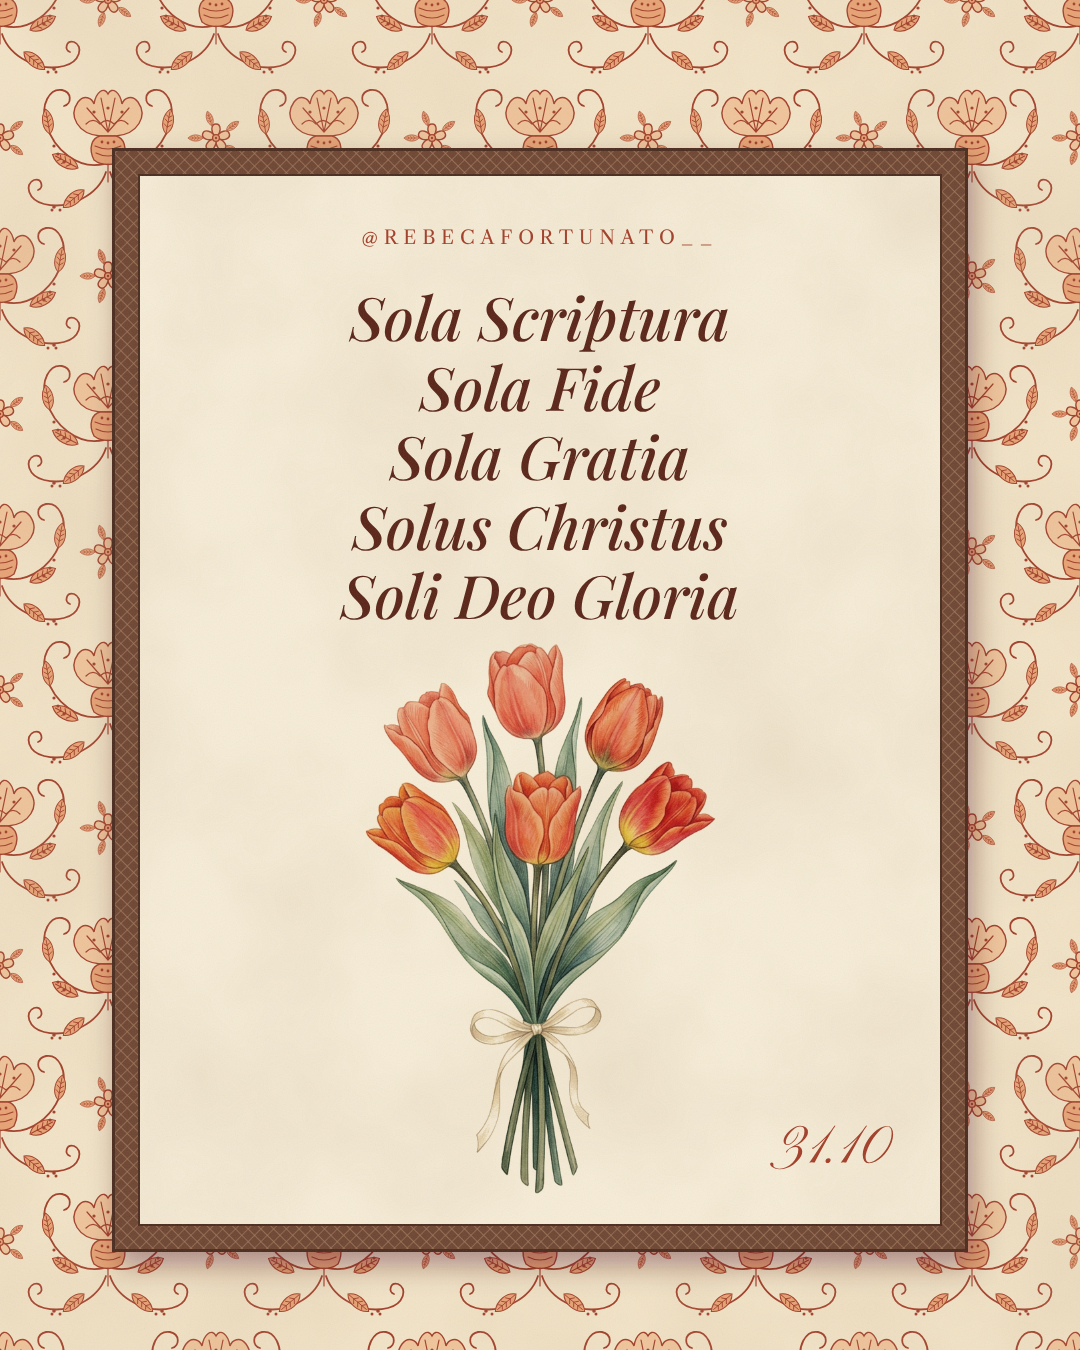
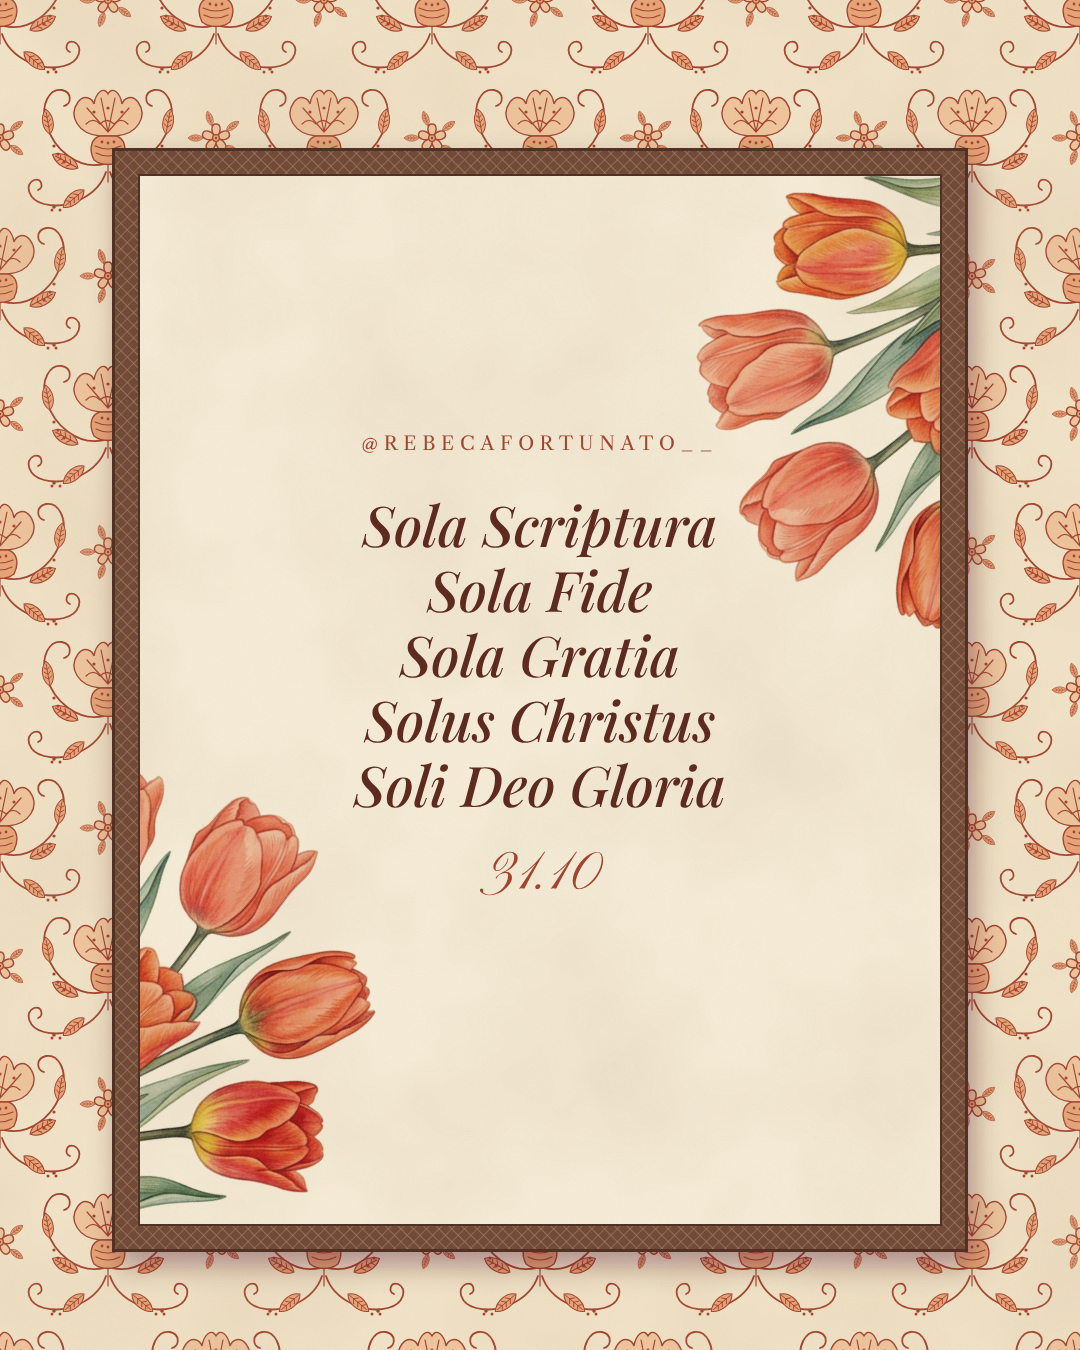
Solas: tira o buquê e põe as tulipas nas laterais, em diagonal
Claude-Session: https://claude.ai/code/session_01GVjzB1KzkYMHJxVq5zD7i2

diff --git a/insta/sola.html b/insta/sola.html
@@ -6,10 +6,11 @@
 body{margin:0;background:#333}
 .post{width:1080px;height:1350px;position:relative;overflow:hidden;margin:0 0 20px}
 .post svg.bg{position:absolute;inset:0}
-.at{position:absolute;left:0;right:0;top:226px;text-align:center;font-family:"Caslon";font-size:19px;letter-spacing:.3em}
-.solas{position:absolute;left:0;right:0;top:282px;text-align:center;font-family:"PlayfairI";font-size:60px;line-height:1.16}
-.buque{position:absolute;mix-blend-mode:multiply}
-.data{position:absolute;font-family:"Pinyon";font-size:54px}
+.at{position:absolute;left:0;right:0;top:432px;text-align:center;font-family:"Caslon";font-size:19px;letter-spacing:.3em}
+.solas{position:absolute;left:0;right:0;top:492px;text-align:center;font-family:"PlayfairI";font-size:56px;line-height:1.16}
+.tela{position:absolute;overflow:hidden}
+.lado{position:absolute;mix-blend-mode:multiply;transform-origin:50% 100%}
+.data{position:absolute;left:0;right:0;text-align:center;font-family:"Pinyon";font-size:54px}
 .grao{position:absolute;inset:0;pointer-events:none}
 </style></head><body>
 
@@ -124,8 +125,8 @@ function post(id, v){
   </svg>
   <div class="at" style="color:${c.at}">@REBECAFORTUNATO__</div>
   <div class="solas" style="color:${c.texto}">Sola Scriptura<br>Sola Fide<br>Sola Gratia<br>Solus Christus<br>Soli Deo Gloria</div>
-  <img class="buque">
-  <div class="data" style="color:${c.at};right:${1080-ix-iw+52}px;bottom:${1350-iy-ih+40}px">31.10</div>
+  <div class="tela" style="left:${ix}px;top:${iy}px;width:${iw}px;height:${ih}px"><img class="lado esq"><img class="lado dir"></div>
+  <div class="data" style="color:${c.at};top:842px">31.10</div>
   <svg class="grao" viewBox="0 0 1080 1350">${DEFS(id,c)}<rect width="1080" height="1350" filter="url(#${id}-grao)"/></svg>
 </div>`;
 }
@@ -162,10 +163,17 @@ window.pronto = new Promise(res=>{
     cx.putImageData(d,0,0);
     const w=x1-x0+16,h=y1-y0+16, out=document.createElement("canvas"); out.width=w; out.height=h;
     out.getContext("2d").drawImage(cv,x0-8,y0-8,w,h,0,0,w,h);
-    const url=out.toDataURL("image/png"), H=560, W=Math.round(H*w/h);
-    const ix=F.x+F.b, iy=F.y+F.b, ih=F.h-2*F.b;
-    document.querySelectorAll(".buque").forEach(el=>{el.src=url;el.style.height=H+"px";el.style.width=W+"px";
-      el.style.left=(540-W/2)+"px";el.style.top=(iy+ih-H-26)+"px";});
+    // Só as flores e o alto dos talos (corta antes do laço): entram pelas laterais da tela, uma de cada lado.
+    const hc=Math.round(h*.68), top=document.createElement("canvas"); top.width=w; top.height=hc;
+    top.getContext("2d").drawImage(out,0,0);
+    const url=top.toDataURL("image/png"), W=520, H=Math.round(W*hc/w), iw=F.w-2*F.b, ih=F.h-2*F.b;
+    // Em diagonal: à esquerda sobem de baixo, à direita caem do alto, como a tulipa caída da referência.
+    const LADOS={ esq:{x:-215, y:ih*1.0, t:"rotate(44deg)"}, dir:{x:iw+215, y:ih*.0, t:"scaleX(-1) rotate(136deg)"} };
+    document.querySelectorAll(".lado").forEach(el=>{
+      const L=LADOS[el.classList.contains("esq")?"esq":"dir"];
+      el.src=url; el.style.width=W+"px"; el.style.height=H+"px";
+      el.style.top=(L.y-H)+"px"; el.style.left=(L.x-W/2)+"px"; el.style.transform=L.t;
+    });
     res([w,h]);
   };
   im.src="gen/tulipas-laranja.png";
